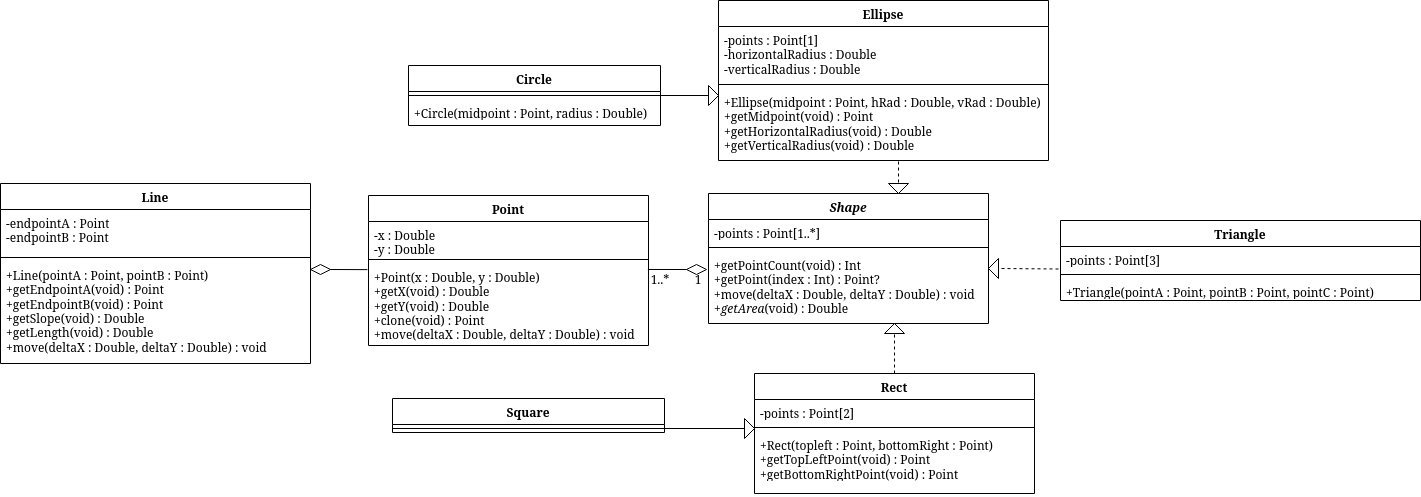
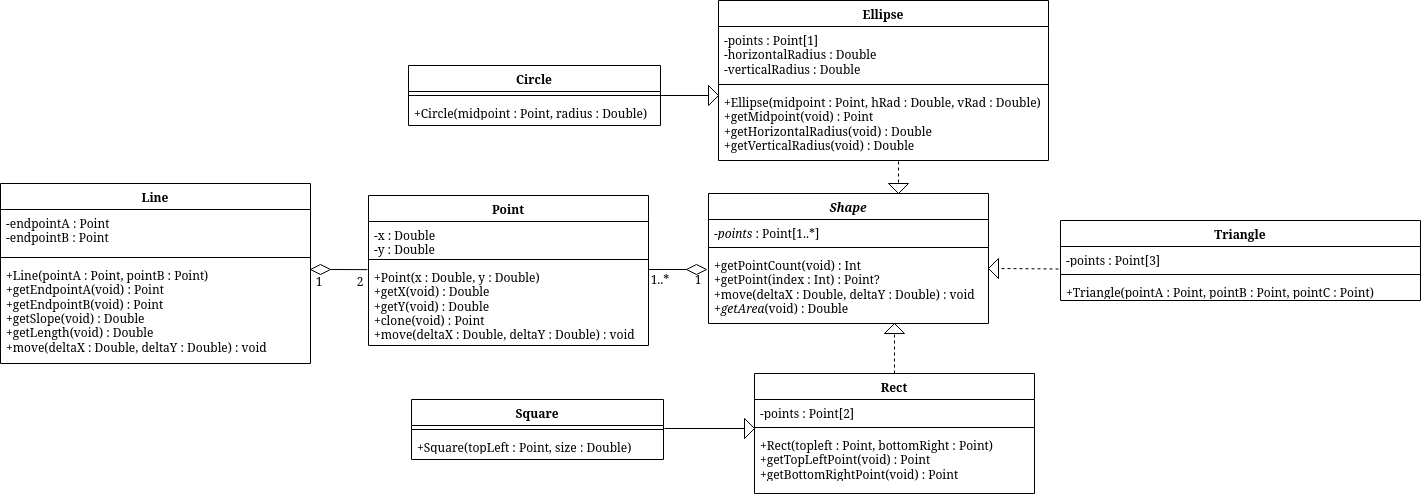
Updated square

Changed region(s): [[0.2787, 0.7847, 0.4645, 0.9356], [0.4954, 0.4527, 0.5883, 0.4829]]

diff --git a/src/test/kotlin/SquareTest.kt b/src/test/kotlin/SquareTest.kt
@@ -6,30 +6,23 @@ class SquareTest {
     @Test
     fun testSquare() {
         /* test square throws illegal argument on uneven side lengths */
-        assertThrows<IllegalArgumentException> {
-            val square : Square = Square(Point(0.0, 0.0), Point(5.0, 7.0))
-        };
-
         /* test square throws illegal argument on invalid area */
         assertThrows<IllegalArgumentException> {
-            val square : Square = Square(Point(5.0, 7.0), Point(5.0, 7.0))
+            val square : Square = Square(Point(5.0, 7.0), 0.0)
         };
 
         val tlpoint = Point(0.0, 0.0);
-        val brpoint = Point(7.0, 7.0);
 
-        val rect : Square = Square(tlpoint, brpoint);
+        val rect : Square = Square(tlpoint, 7.0);
 
         /* test shape points */
         assertEquals(2, rect.getPointCount());
         assertEquals(tlpoint, rect.getPoint(0));
-        assertEquals(brpoint, rect.getPoint(1));
         assertEquals(null, rect.getPoint(2));
         assertEquals(null, rect.getPoint(-1));
 
         /* test point get */
         assertEquals(tlpoint, rect.getTopLeftPoint());
-        assertEquals(brpoint, rect.getBottomRightPoint());
 
         /* test area */
         assertEquals(7.0 * 7.0, rect.getArea());
@@ -38,7 +31,5 @@ class SquareTest {
         rect.move(-12.0, 0.0);
         assertEquals(-12.0, tlpoint.getX());
         assertEquals(0.0, tlpoint.getY());
-        assertEquals(-5.0, brpoint.getX());
-        assertEquals(7.0, brpoint.getY());
     }
 }

diff --git a/src/main/kotlin/Square.kt b/src/main/kotlin/Square.kt
@@ -1,10 +1,3 @@
 
-class Square(topLeft : Point, bottomRight : Point) : Rect(topLeft, bottomRight)
-{
-	init
-	{
-		require((bottomRight.getX() - topLeft.getX()) == (bottomRight.getY() - topLeft.getY()))
-			{ "Square can not have unequal sides." }
-	}
-}
+class Square(topLeft : Point, size : Double) : Rect(topLeft, Point(topLeft.getX() + size, topLeft.getY() + size))
 

diff --git a/src/main/kotlin/Circle.kt b/src/main/kotlin/Circle.kt
@@ -1,6 +1,3 @@
 
 class Circle (midpoint : Point, radius : Double) : Ellipse (midpoint, radius, radius)
-{
-
-}
 